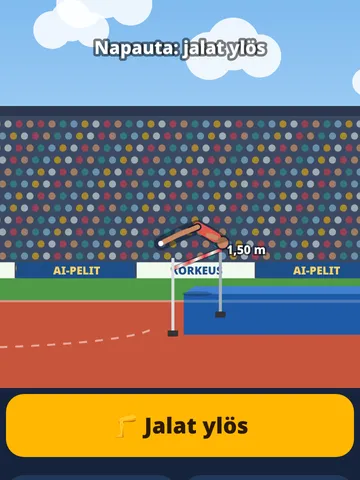
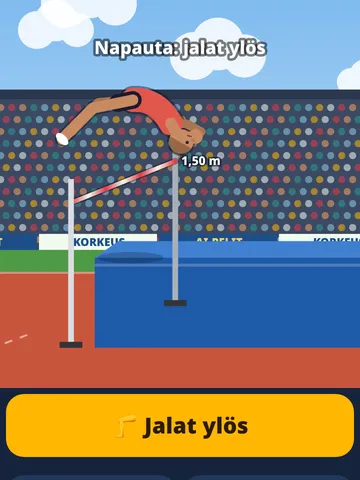
Tests for the new looks; Korkeushyppy's shelf picture shows the new flop (#469)
Mäkihyppy v12 wears the shared outfit; every outfit stands on every event's podium; Korkeushyppy
v15 judges 180 jumps exactly as v14 did; the athletics picker draws the shared figure and a
moving preview, a game with its own figure keeps its draw.

diff --git a/tests/test_outfits_lib.py b/tests/test_outfits_lib.py
@@ -153,7 +153,7 @@ def test_turning_the_phone_with_the_picker_open_keeps_it_and_the_choice(lib_page
     assert last["y"] + last["height"] <= 360
     page.set_viewport_size({"width": 360, "height": 740})
     page.wait_for_timeout(100)
-    assert page.locator("#ai-pelit-asut canvas").first.bounding_box()["height"] == 80
+    assert page.locator("#ai-pelit-asut .asu canvas").first.bounding_box()["height"] == 80
     assert page.locator("#ai-pelit-asut").count() == 1
     assert errors == []
 
@@ -212,3 +212,57 @@ def test_a_group_takes_over_the_first_earlier_choice_in_its_fixed_order(site, br
     page = shared_page(site, browser, "laji-d", {"ai-pelit:_asut:keihas": "ei-ole", "ai-pelit:_asut:kuula": "kulta"})
     assert page.evaluate("AiPelitOutfits.current().id") == "kulta"
     page.context.close()
+
+
+INKED = """sel => { const c = document.querySelector(sel), g = c.getContext('2d');
+  const d = g.getImageData(0, 0, c.width, c.height).data; let n = 0;
+  for (let i = 3; i < d.length; i += 4) if (d[i] > 0) n++; return n; }"""
+
+PIXELS = """sel => { const c = document.querySelector(sel);
+  return Array.from(c.getContext('2d').getImageData(0, 0, c.width, c.height).data).join(); }"""
+
+
+def test_the_athletics_picker_shows_the_shared_figure_alive(site, browser):
+    # #469: data-share="yleisurheilu" draws AiPelitOutfits.figure() on the cards and in a moving
+    # preview at the top, never the game's own draw.
+    site.build()
+    (site.root / "laji-f").mkdir(exist_ok=True)
+    (site.root / "laji-f" / "index.html").write_text(SHARED_PAGE.replace(
+        "draw: function () {}", "draw: function () { window.ownDraws = (window.ownDraws || 0) + 1; }") % "laji-f")
+    ctx = browser.new_context(viewport={"width": 360, "height": 740})
+    page = ctx.new_page()
+    errors = []
+    page.on("pageerror", lambda e: errors.append(str(e)))
+    page.goto(site.url + "laji-f/")
+    page.evaluate("AiPelitOutfits.open()")
+    assert page.locator("#ai-pelit-asut .asu").count() == 16
+    assert page.evaluate(INKED, "[data-asu=suomi] canvas") > 300
+    page.wait_for_timeout(300)
+    assert page.evaluate(INKED, "#ai-pelit-asut-esikatselu") > 1000
+    first = page.evaluate(PIXELS, "#ai-pelit-asut-esikatselu")
+    page.wait_for_timeout(1700)
+    assert page.evaluate(PIXELS, "#ai-pelit-asut-esikatselu") != first, "the preview stood still"
+    assert page.evaluate("window.ownDraws || 0") == 0
+    # The preview stops with the picker.
+    page.click("#ai-pelit-asut-valmis")
+    assert page.locator("#ai-pelit-asut-esikatselu").count() == 0
+    # Sideways and low there is no room for it; the cards fit instead.
+    page.set_viewport_size({"width": 740, "height": 360})
+    page.evaluate("AiPelitOutfits.open()")
+    assert page.locator("#ai-pelit-asut-esikatselu").count() == 0
+    assert page.locator("#ai-pelit-asut .asu").count() == 16
+    assert errors == []
+    ctx.close()
+
+
+def test_a_game_with_its_own_figure_keeps_it_in_the_picker(lib_page):
+    # Orava, Trampoliini and Voimistelu keep their own figure (#469): no data-share, so the cards
+    # and the hopping preview come from the game's draw (here a red or blue box).
+    page, errors = lib_page
+    page.evaluate("AiPelitOutfits.open()")
+    red = page.evaluate("""() => { const c = document.querySelector('[data-asu=perus] canvas');
+      const d = c.getContext('2d').getImageData(c.width / 2, c.height / 2, 1, 1).data; return [d[0], d[1], d[2]]; }""")
+    assert red == [255, 0, 0]
+    page.wait_for_timeout(300)
+    assert page.evaluate(INKED, "#ai-pelit-asut-esikatselu") > 1000
+    assert errors == []

diff --git a/tests/test_yleisurheilu_palkinnot.py b/tests/test_yleisurheilu_palkinnot.py
@@ -1,0 +1,58 @@
+"""The podium of yleisurheilu-10 in every athletics event, for every outfit (#469).
+
+Every event's newest version draws its medal ceremony with the shared front-facing figure. Each
+outfit (the athletics kits, the Halloween costumes and the Tylypahka robes) stands on it, through
+the hops, the medals and the cheer, upright and sideways, with no page error.
+"""
+
+import json
+
+import pytest
+
+from conftest import ROOT
+
+EVENTS = ["korkeushyppy/v15", "pituushyppy/v18", "seivashyppy/v16", "keihas/v17", "kuula/v11",
+          "moukari/v13", "makihyppy/v12"]
+
+pytestmark = pytest.mark.games(*sorted({e.split("/")[0] for e in EVENTS}))
+
+DRAW = """([w, h]) => {
+  const ids = AiPelitOutfits.list().map(o => o.id);
+  const cv = document.createElement('canvas'); cv.width = w; cv.height = h;
+  const x = cv.getContext('2d');
+  const box = { left: 8, top: 44, w: w - 16, bottom: h - 8 };
+  const COLS = ['#e63946', '#2a9d8f', '#f4a261', '#457b9d'];
+  const drawn = [];
+  // Twelve at a time, so every outfit takes each podium place at least once.
+  for (let start = 0; start < ids.length; start += 3) {
+    const res = [];
+    for (let i = 0; i < 12; i++) {
+      const fit = ids[(start + i) % ids.length];
+      res.push({ id: 'a' + i, p: i === 0 ? 'me' : null, name: 'Urheilija ' + i, col: COLS[i % 4],
+        best: 10 - i * 0.3, place: i + 1, marks: [10 - i * 0.3], fin: true, fit });
+    }
+    for (const t of [0, 1.2, 3, 4.8, 6.5]) {
+      K.ending = { t, res, at: 0, place: 1, mark: 10, fin: true };
+      x.clearRect(0, 0, w, h);
+      K.drawPodium(x, box);
+      drawn.push(res.slice(0, 3).map(r => r.fit).join());
+    }
+  }
+  K.ending = null;
+  return { ids, drawn: drawn.length, top: [...new Set(drawn.join().split(','))].length };
+}"""
+
+
+@pytest.mark.parametrize("event", EVENTS)
+def test_every_outfit_stands_on_the_podium(site, context, event):
+    site.build(ROOT / "games")
+    page = context.new_page()
+    errors = []
+    page.on("pageerror", lambda e: errors.append(str(e)))
+    page.goto(site.url + "games/" + event + "/")
+    page.wait_for_function("typeof K !== 'undefined' && K.drawPodium && window.AiPelitOutfits", timeout=5000)
+    for size in ([360, 740], [740, 360]):
+        out = page.evaluate(DRAW, size)
+        assert len(out["ids"]) == 16, out["ids"]
+        assert out["top"] == 16, "an outfit never stood on the podium"
+    assert errors == []

diff --git a/tests/test_makihyppy_v12_asu.py b/tests/test_makihyppy_v12_asu.py
@@ -1,0 +1,53 @@
+"""Mäkihyppy v12: the jumper wears the athletics outfit (#469).
+
+The same "👕 Asu" choice as the other events (data-share="yleisurheilu"), worn on the hill, sent to
+friends with `fit`, and drawn on the podium; the computer's jumpers keep the plain kit.
+"""
+
+from test_makihyppy_v12_viikko import HELPERS, open_game as open_week
+import yleisurheilu_asut as A
+
+URL = "games/makihyppy/v12/"
+
+
+def test_picking_saves_for_every_event(site, context):
+    A.picking_saves_for_every_event(site, context, URL, "makihyppy")
+
+
+def test_wears_what_another_event_picked(site, context):
+    A.wears_what_another_event_picked(site, context, URL, "makihyppy")
+
+
+def test_reads_its_own_older_choice(site, context):
+    A.reads_its_own_older_choice(site, context, URL, "makihyppy")
+
+
+def test_menu_fits_upright(site, context):
+    A.menu_fits(site, context, URL, (360, 740))
+
+
+def test_menu_fits_sideways(site, context):
+    A.menu_fits(site, context, URL, (740, 360))
+
+
+def test_friends_see_each_others_outfits(site, browser):
+    A.friends_see_each_others_outfits(site, browser, URL)
+
+
+def test_the_podium_draws_the_outfit_and_the_plain_kits(site, context):
+    page = open_week(site, context)
+    page.evaluate("localStorage.setItem('ai-pelit:_asut:yleisurheilu', '\"noita\"')")
+    page.reload()
+    page.evaluate(HELPERS)
+    page.click("#go")
+    for _ in range(4):
+        page.wait_for_function("th && th.mine", timeout=3000)
+        page.evaluate("strong()")
+    assert page.evaluate("K.ending && K.ending.res.length") == 12
+    # Every figure on the podium gets its look from the game: mine the witch, the rest their colour.
+    looks = page.evaluate("""K.ending.res.map(r => { const k = kit(r.fit, r.col); return [r.p === 'me', k.head, k.top === r.col]; })""")
+    mine = [l for l in looks if l[0]]
+    assert mine == [[True, "witch", False]]
+    assert all(l[1] is None and l[2] for l in looks if not l[0])
+    page.wait_for_timeout(1500)
+    assert page.errors == []

diff --git a/tests/test_korkeushyppy_v15_sama.py b/tests/test_korkeushyppy_v15_sama.py
@@ -1,0 +1,26 @@
+"""Korkeushyppy v15 draws the jump anew and jumps the same (#469, looks only).
+
+`tests/fixtures/korkeushyppy_v14_hypyt.json` holds 180 jumps (take-off spot, speed, bar, arch and
+kick times) as v14's own code judged them: cleared or not, the margin, and why it failed. v14's
+code was run for it from `git show origin/main:games/korkeushyppy/v14/index.html` before v15
+merged. v15's drawing adds points of its own; the bar must still meet the same body.
+"""
+
+import json
+
+from conftest import ROOT
+
+URL = "games/korkeushyppy/v15/"
+
+
+def test_every_jump_ends_as_in_v14(site, context):
+    want = json.loads((ROOT / "tests" / "fixtures" / "korkeushyppy_v14_hypyt.json").read_text())
+    site.build(ROOT / "games")
+    page = context.new_page()
+    page.goto(site.url + URL)
+    page.wait_for_function("typeof jumpResult === 'function'")
+    got = page.evaluate("""rows => rows.map(([d, v, bar, a, k]) => {
+      const r = jumpResult(d, v, bar, a, k);
+      return [d, v, bar, a, k, r.ok, +r.min.toFixed(6), r.why];
+    })""", want)
+    assert got == want
